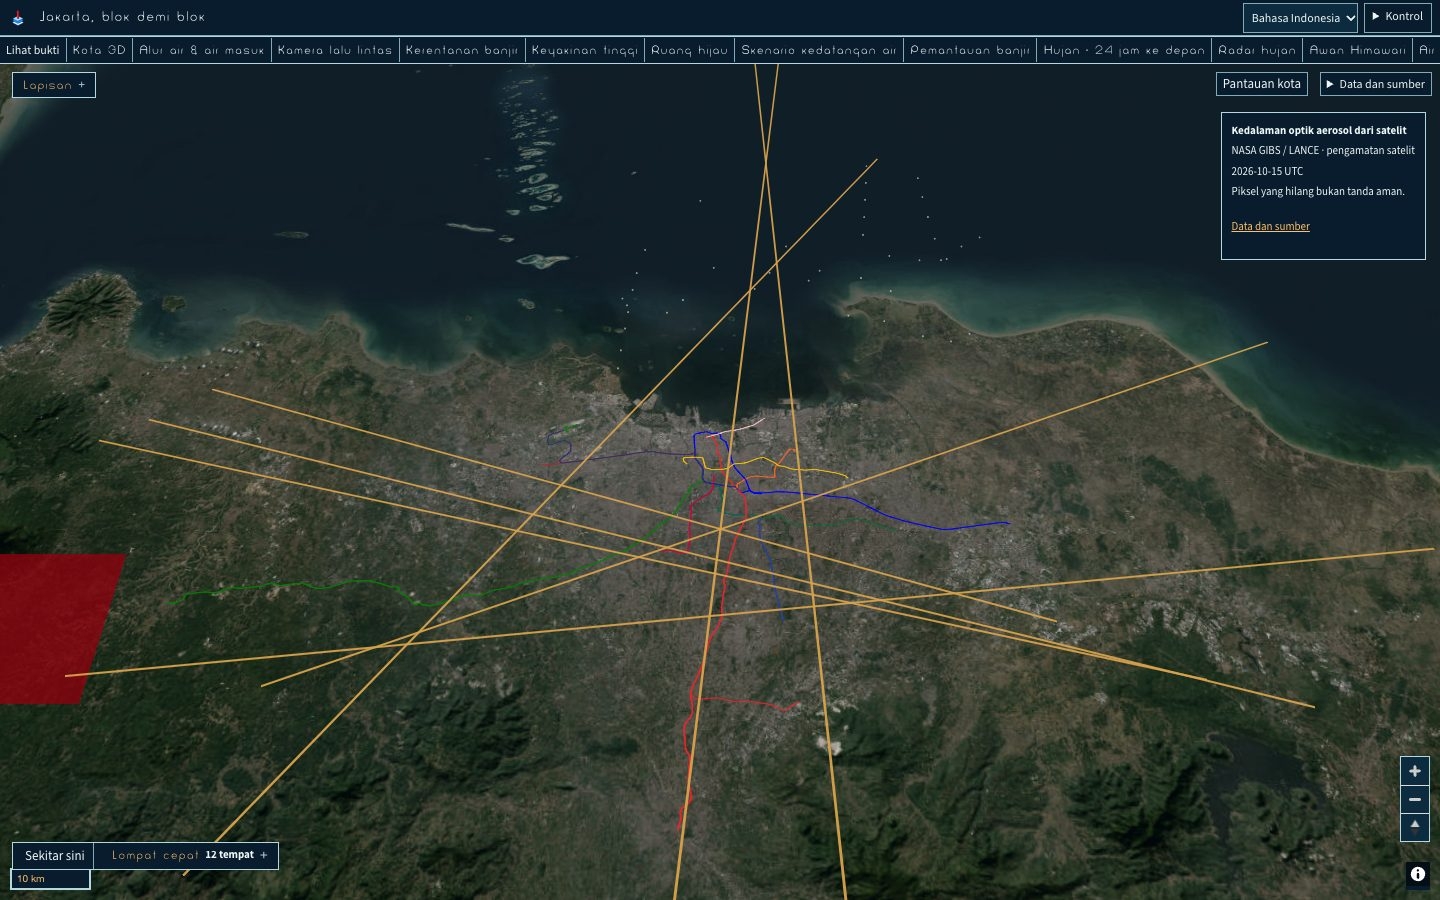
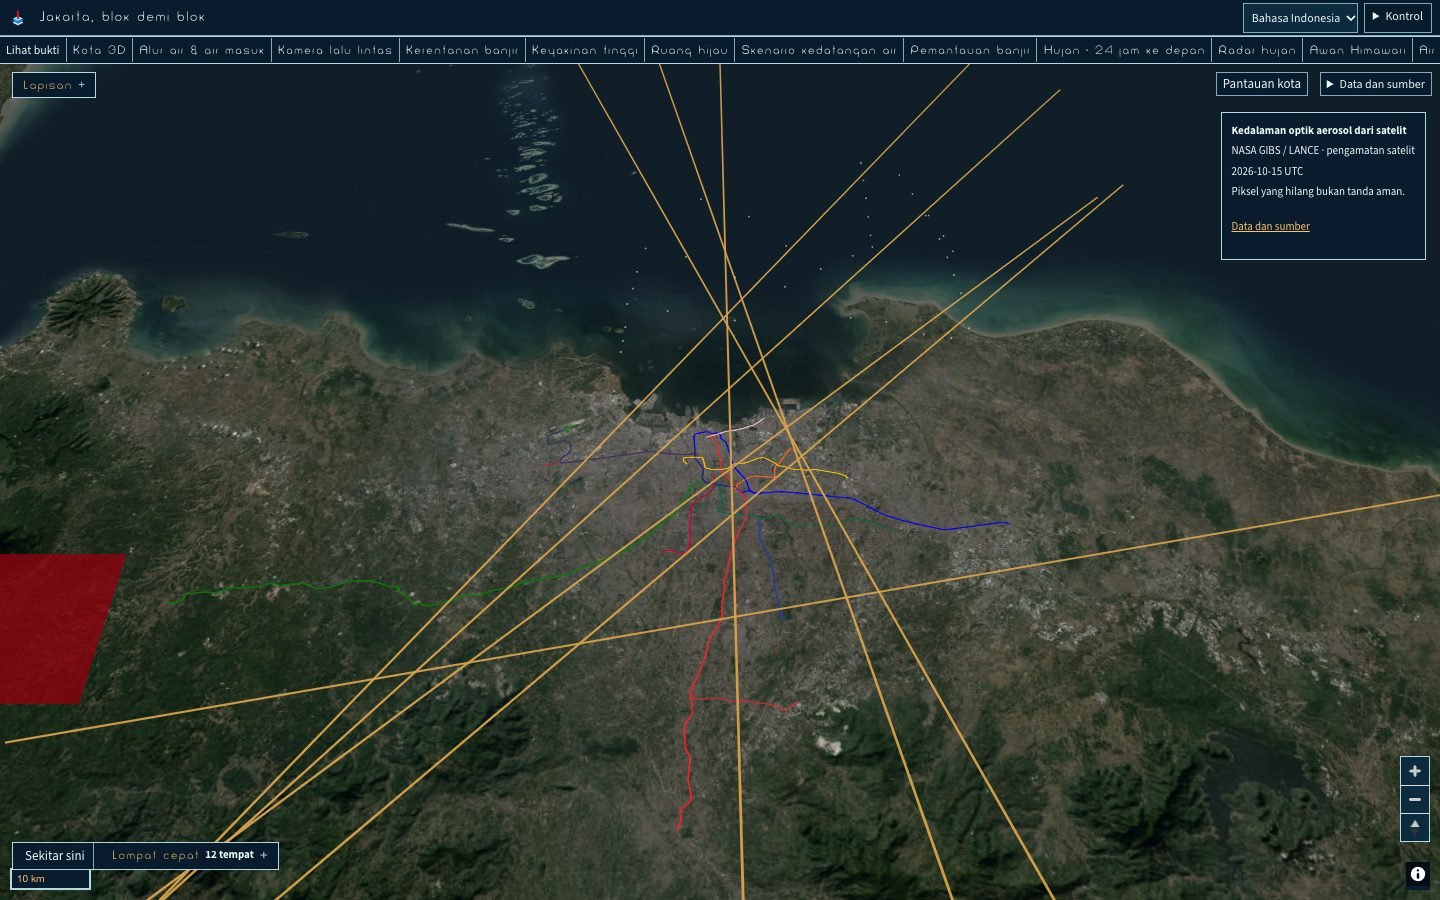
fix: size the wind arrows in kilometres, not in degrees
The live screenshot showed the arrows as lines running off the map in every
direction. Scaling was 0.5 degrees per m/s, which at 6°S is 83 km each side:
a 166 km arrow drawn across a 50 km city. Every API assertion was still
green, because a wrong visual scale is not visible to a JSON contract.

Lengths are now built in kilometres and converted at the cell's own latitude
using real km-per-degree constants: 3 km plus 3 km per m/s, capped at 21 km so
a gust is capped rather than extrapolated. Particle seeding uses the same
scale, so trails sit with their arrows instead of in a ring around them.

The test now pins the constants and the resulting 3..21 km span, so the
regression cannot come back as a passing suite.

diff --git a/public/wind-field.js b/public/wind-field.js
@@ -108,15 +108,17 @@ export function createWindField(map, { text: t, active, buildTag }) {
     const feature = {
       type: 'FeatureCollection',
       features: cells.map((c, i) => {
+        // Length is built in KILOMETRES, then converted at this cell's latitude.
+        // Working in degrees directly is how a 1.5 m/s wind became a 166 km line
+        // across a 50 km city: 0.75° of longitude at 6°S is 83 km.
+        const km = 3 + Math.min(c.speed, 6) * 3;            // 3..21 km
         const rad = c.toward * Math.PI / 180;
-        // Arrow length encodes speed: 0.5 degrees per m/s, capped so a gust does
-        // not become a city-spanning line.
-        const len = Math.min(0.5 * c.speed, 2.2);
-        const dx = Math.sin(rad) * len, dy = Math.cos(rad) * len;
+        const dLat = (Math.cos(rad) * km / 2) / 110.57;
+        const dLng = (Math.sin(rad) * km / 2) / (111.32 * Math.cos(c.lat * Math.PI / 180));
         return {
           type: 'Feature',
-          properties: { i, speed: c.speed, from: c.from },
-          geometry: { type: 'LineString', coordinates: [[c.lng - dx / 2, c.lat - dy / 2], [c.lng + dx / 2, c.lat + dy / 2]] },
+          properties: { i, speed: c.speed, from: c.from, lengthKm: km },
+          geometry: { type: 'LineString', coordinates: [[c.lng - dLng, c.lat - dLat], [c.lng + dLng, c.lat + dLat]] },
         };
       }),
     };
@@ -138,7 +140,7 @@ export function createWindField(map, { text: t, active, buildTag }) {
     for (const c of cells) {
       const rad = c.toward * Math.PI / 180;
       for (let k = -2; k <= 2; k++) {
-        const off = k * 0.035;
+        const off = (k * 4) / 111.32 / Math.cos(c.lat * Math.PI / 180); // ~4 km steps
         pts.push([c.lng - Math.sin(rad) * off, c.lat - Math.cos(rad) * off]);
       }
     }
